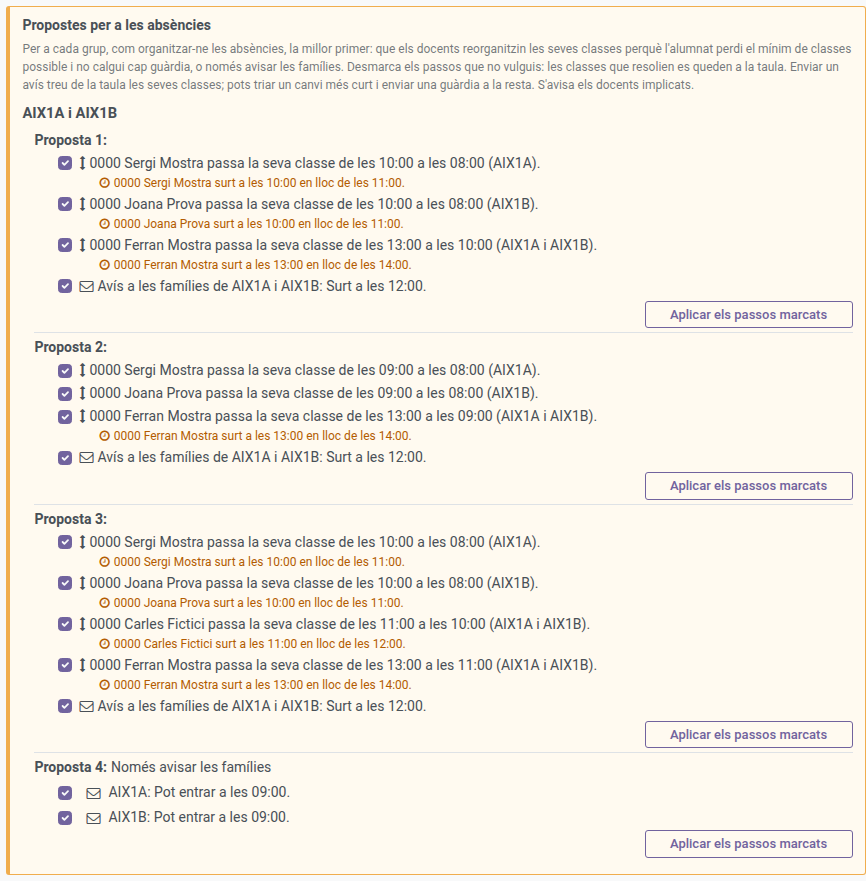
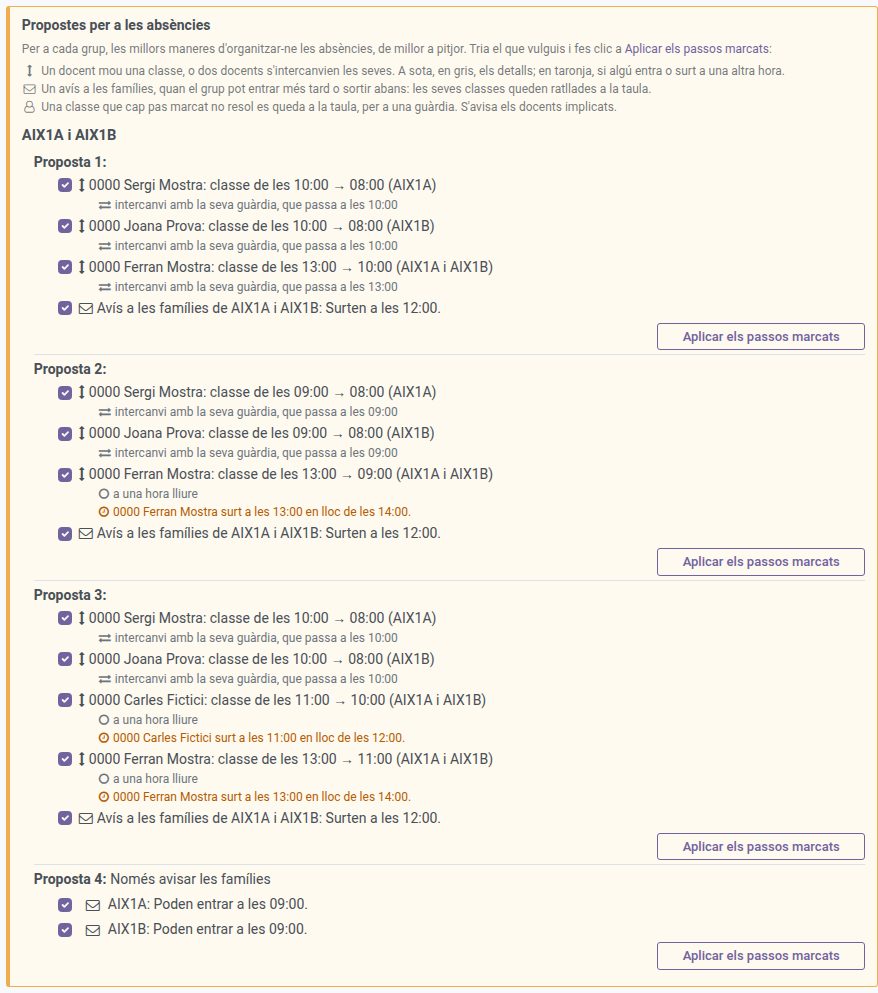
Guard board #709 close: shared moved-lessons shift, missing tests, manual screenshots
One helper computes a teacher's day with all their moved lessons for both the
notifications and the applied labels; tests for mixed kinds in a step and the
swap label; a redundant assertion removed; screenshots 06/07 refreshed and
12-14 added to the teachers' manual.

diff --git a/models/attendance/guard_duty_board.py b/models/attendance/guard_duty_board.py
@@ -1453,20 +1453,23 @@ class EmsCourseGuardDutyBoard(models.Model):
         timetable that weekday, their day's shift counting every lesson of theirs moved that day."""
         attendances = self._get_guard_duty_board_attendance_ids([
             ('dayofweek', '=', str(cover.date.weekday())), ('employee_id', 'in', teachers.ids)])
-        by_teacher = {teacher.id: attendances.filtered(lambda attendance, teacher=teacher: attendance.employee_id == teacher)
-                      for teacher in teachers}
+        context = {'by_teacher': {
+            teacher.id: attendances.filtered(lambda attendance, teacher=teacher: attendance.employee_id == teacher)
+            for teacher in teachers}}
         moves = cover | cover.search([('date', '=', cover.date), ('state', '=', 'assigned'), ('cover_type', '=', 'arrangement'),
                                       ('arrangement_type', '=', 'move'), ('guard_employee_id', 'in', teachers.ids)])
-        shifts = {}
-        for teacher in teachers:
-            own = moves.filtered(lambda move, teacher=teacher: move.guard_employee_id == teacher and move.vacated_hour_to)
-            periods = sorted({((move.vacated_hour_from, move.vacated_hour_to), (move.hour_from, move.hour_to)) for move in own})
-            shifts[teacher.id] = schedule_shift(
-                [(attendance.hour_from, attendance.hour_to) for attendance in by_teacher[teacher.id]],
-                [vacated for vacated, _target in periods], [target for _vacated, target in periods],
-                self._duty_periods(by_teacher[teacher.id]))
+        shifts = {teacher.id: self._moved_lessons_shift(context, teacher, moves) for teacher in teachers}
         step = (kind, frozenset(teachers.ids), (cover.vacated_hour_from, cover.vacated_hour_to), (cover.hour_from, cover.hour_to))
-        return self._arrangement_step_how({'by_teacher': by_teacher}, step, shifts)
+        return self._arrangement_step_how(context, step, shifts)
+
+    def _moved_lessons_shift(self, context, teacher, moves):
+        """How `teacher`'s working day changes with every lesson of theirs that `moves` (applied
+        moved lessons, any teacher's) takes elsewhere that day (issue #645: a plan can move several),
+        see _schedule_shift."""
+        periods = sorted({((move.vacated_hour_from, move.vacated_hour_to), (move.hour_from, move.hour_to)) for move in moves
+                          if move.guard_employee_id == teacher and move.vacated_hour_to})
+        return self._schedule_shift(context, teacher, [vacated for vacated, _target in periods],
+                                    [target for _vacated, target in periods])
 
     def _arrangement_step_details(self, step, values):
         """The lines under a step saying what kind of move it is (issue #709, see
@@ -2362,11 +2365,8 @@ class EmsCourseGuardDutyBoard(models.Model):
                 context, 'swap', cover.absent_employee_id, cover.guard_employee_id, cover.hour_from, cover.hour_to,
                 (cover.vacated_hour_from, cover.vacated_hour_to))
         else:
-            moves = context['covers'].filtered(
-                lambda other: other.arrangement_type == 'move' and other.guard_employee_id == cover.guard_employee_id)
-            periods = {((other.vacated_hour_from, other.vacated_hour_to), (other.hour_from, other.hour_to)) for other in moves | cover}
-            shift = self._schedule_shift(context, cover.guard_employee_id, [vacated for vacated, _target in periods],
-                                         [target for _vacated, target in periods])
+            moves = context['covers'].filtered(lambda other: other.arrangement_type == 'move') | cover
+            shift = self._moved_lessons_shift(context, cover.guard_employee_id, moves)
             shifts = [(cover.guard_employee_id, *change) for change in shift or ()]
         return self._schedule_shift_labels(shifts or [])
 

diff --git a/tests/test_absence_coverage.py b/tests/test_absence_coverage.py
@@ -1667,6 +1667,8 @@ class TestAbsenceCoverage(GuardDutyBoardCase):
         plans = self._board_row(self.department_chief)['arrangement_plans']
         self.assertEqual(len(plans), 2, [[step['label'] for step in plan['steps']] for plan in plans])
         self.assertEqual(plans[0]['title'], 'Proposal 1:')
+        self.assertEqual(plans[0]['steps'][0]['label'], f"{self.teacher_b.name} and {self.teacher_a.name} swap their "
+                                                        f"08:00 and 11:00 lessons ({self.group_a.name})")
         self.assertIn(f'{self.teacher_b.name} comes in at 08:00 instead of 11:00.', plans[0]['steps'][0]['schedule_changes'])
         data = self.env.company.current_course_id.with_user(self.department_chief).get_guard_duty_board_data(
             '0', 'morning', day=str(self.day))
@@ -1919,6 +1921,21 @@ class TestAbsenceCoverage(GuardDutyBoardCase):
             _render_qweb_html('ems.report_guard_duty_board', [self.env.company.current_course_id.id])
         self.assertIn(b'(guard moved from 10:00)', html)
 
+    def test_a_co_taught_step_names_each_teacher_when_their_kinds_differ(self):
+        """Issue #709: under a step, one line per kind of move; the teachers are named only when
+        the pack's teachers differ (one swaps with a guard, the other goes to a free hour)."""
+        course = self.env['ems.course']
+        values = {'lesson': '13:00', 'joined': ''}
+        same = course._arrangement_step_details(
+            {'how': [(self.teacher_b, 'guard', False), (self.teacher_c, 'guard', False)]}, values)
+        self.assertEqual(same, [{'icon': 'fa-exchange', 'text': 'swap with their guard, which moves to 13:00'}])
+        mixed = course._arrangement_step_details(
+            {'how': [(self.teacher_b, 'guard', False), (self.teacher_c, 'free', False)]}, values)
+        self.assertEqual(mixed, [
+            {'icon': 'fa-exchange', 'text': f'{self.teacher_b.name}: swap with their guard, which moves to 13:00'},
+            {'icon': 'fa-circle-o', 'text': f'{self.teacher_c.name}: to a free hour'},
+        ])
+
     def test_a_meeting_swapped_with_a_lesson_is_no_guard(self):
         """Issue #709: a lesson taken to a meeting swaps with it too (the teacher's day does not
         change), but a meeting is no guard: nobody is put on guard at the lesson's hour."""
@@ -2037,9 +2054,6 @@ class TestAbsenceCoverage(GuardDutyBoardCase):
         first = actions[0]['plan']
         self.assertEqual(first['steps'][3]['label'],
                          f"Notice to the families of {self.group_a.name} and {self.group_b.name}: Leaves at 12:00.")
-        # teacher_guard brings their 13:00 lesson to their 12:00 guard, which goes to 13:00 instead
-        # (issue #709): they still leave at 14:00.
-        self.assertEqual(first['steps'][2]['schedule_changes'], [])
         for line in data['lines']:
             for absence in line['absences']:
                 if absence['teacher_id'] == self.teacher_a.id:

diff --git a/docs/es/teachers/guard-duty-schedule.md b/docs/es/teachers/guard-duty-schedule.md
@@ -212,7 +212,7 @@ El recuadro tiene una sección por grupo, encabezada con su nombre. Los grupos q
 
 Un grupo a cuyas familias hay que rectificar algo no aparece en este recuadro, sino en uno rojo, encima: **Corrección de ausencias previamente asignadas** (ver **Cuando la ausencia cambia después**).
 
-![Recuadro de propuestas para las ausencias: la sección de dos grupos, con tres propuestas numeradas, cada una con una lista de pasos con su casilla y, en naranja, las horas de entrada y salida que cambian, y al final la opción de solo avisar a las familias](../../assets/teachers/guard-duty-06-reorganitzacions.png)
+![Recuadro de propuestas para las ausencias: la sección de dos grupos, con tres propuestas numeradas, cada una con una lista de pasos con su casilla y, debajo de cada paso, en gris qué tipo de movimiento es y en naranja las horas de entrada y salida que cambia, y al final la opción de solo avisar a las familias](../../assets/teachers/guard-duty-06-reorganitzacions.png)
 
 Cada propuesta es una lista de pasos, uno por línea, siempre entre docentes de esos grupos y dentro del mismo día. Un paso se lee como una línea corta, por ejemplo *"Ferran: clase de las 13:00 → 10:00 (AIX1A y AIX1B)"*, y debajo, en gris, qué tipo de movimiento es para el docente: *intercambio con su guardia, que pasa a las 13:00*, *intercambio con su hora no lectiva (…)*, *a una hora libre*, *desplazamiento de jornada* (entra y sale más tarde, o más temprano) o *grupos unidos con AIX1B*. Los tipos de paso son:
 
@@ -231,7 +231,13 @@ Las propuestas aparecen en este orden: primero las que hacen perder menos clases
 
 Una clase que se lleva a una hora en la que el docente tiene una guardia, una coordinación o cualquier otra tarea no lectiva se intercambia con esa tarea: la tarea pasa a la hora que deja la clase, de modo que el docente entra y sale a la hora de siempre y no aparece ninguna línea naranja. Solo cambia la hora de entrada o de salida una clase que se lleva a una hora en la que el docente no está en el centro. Si la tarea es una guardia normal, el horario también la mueve: a la hora de la guardia el docente aparece tachado en la columna **Guardia** (está con el grupo), y a la hora de la clase aparece en ella con la etiqueta **(guardia movida desde las 10:00)**, de modo que puedes enviarlo a cubrir una clase como a cualquier otro docente de guardia. Una reunión, una coordinación o cualquier otra tarea no aparece en ningún sitio.
 
+![Columna Guardia después de aplicar una propuesta: dos docentes tachados a la hora de su guardia, en la que están con los grupos, y de guardia a la hora de la clase que han movido, con la etiqueta guardia movida desde las 08:00 y desde las 10:00](../../assets/teachers/guard-duty-13-guardia-moguda.png)
+
+![Por qué una clase no necesita guardia: la reorganización, con el mismo texto que el paso de la propuesta, una clase llevada a la guardia de un docente, que pasa a la hora de la clase](../../assets/teachers/guard-duty-14-reorganitzacio-aplicada.png)
+
 **El horario de un docente no se puede cambiar sin él.** Cuando los pasos que aplicas cambian la hora de entrada o de salida de alguien, el horario te lo pregunta antes y te muestra los cambios: *"¿Has hablado con …?"*. Haz clic en **Sí, aplícalo** cuando haya estado de acuerdo. Con **Todavía no**, no se aplica nada y la propuesta queda como estaba.
+
+![Diálogo Cambios de jornada: las horas de entrada y salida que cambia la reorganización y la pregunta de si lo has hablado con el docente, con los botones Sí, aplícalo y Todavía no](../../assets/teachers/guard-duty-12-canvi-jornada.png)
 
 **Aplicar una propuesta.** Haz clic en **Aplicar los pasos marcados**, a su derecha, o haz clic en la clase y elige la propuesta en el diálogo, donde las propuestas que resuelven esa clase aparecen primero, por encima de enviar una guardia. Todos los pasos aparecen marcados: desmarca los que no quieras. Un paso que necesita otro se desmarca con él (una clase movida al hueco que deja otra, un aviso que solo tiene sentido por una clase movida), y marcar un paso marca lo que necesita.
 

diff --git a/docs/ca/teachers/guard-duty-schedule.md b/docs/ca/teachers/guard-duty-schedule.md
@@ -212,7 +212,7 @@ El quadre té una secció per grup, encapçalada pel seu nom. Els grups que comp
 
 Un grup a les famílies del qual s'ha de rectificar alguna cosa no surt en aquest quadre sinó en un de vermell, a sobre: **Correcció d'absències prèviament assignades** (vegeu **Quan l'absència canvia després**).
 
-![Quadre de propostes per a les absències: la secció de dos grups, amb tres propostes numerades, cadascuna amb una llista de passos amb la seva casella i, en taronja, les hores d'entrada i sortida que canvien, i al final l'opció de només avisar les famílies](../../assets/teachers/guard-duty-06-reorganitzacions.png)
+![Quadre de propostes per a les absències: la secció de dos grups, amb tres propostes numerades, cadascuna amb una llista de passos amb la seva casella i, sota cada pas, en gris quin tipus de moviment és i en taronja les hores d'entrada i sortida que canvia, i al final l'opció de només avisar les famílies](../../assets/teachers/guard-duty-06-reorganitzacions.png)
 
 Cada proposta és una llista de passos, un per línia, sempre entre docents d'aquells grups i dins el mateix dia. Un pas es llegeix com una línia curta, per exemple *"Ferran: classe de les 13:00 → 10:00 (AIX1A i AIX1B)"*, i a sota, en gris, quin tipus de moviment és per al docent: *intercanvi amb la seva guàrdia, que passa a les 13:00*, *intercanvi amb la seva hora no lectiva (…)*, *a una hora lliure*, *desplaçament de jornada* (entra i surt més tard, o més d'hora) o *grups units amb AIX1B*. Els tipus de pas són:
 
@@ -231,7 +231,13 @@ Les propostes surten en aquest ordre: primer les que fan perdre menys classes a 
 
 Una classe que es porta a una hora en què el docent té una guàrdia, una coordinació o qualsevol altra tasca no lectiva s'intercanvia amb aquesta tasca: la tasca passa a l'hora que deixa la classe, de manera que el docent entra i surt a l'hora de sempre i no apareix cap línia taronja. Només canvia l'hora d'entrada o de sortida una classe que es porta a una hora en què el docent no és al centre. Si la tasca és una guàrdia normal, l'horari també la mou: a l'hora de la guàrdia el docent surt ratllat a la columna **Guàrdia** (és amb el grup), i a l'hora de la classe hi apareix amb l'etiqueta **(guàrdia moguda des de les 10:00)**, de manera que el pots enviar a cobrir una classe com qualsevol altre docent de guàrdia. Una reunió, una coordinació o qualsevol altra tasca no surt enlloc.
 
+![Columna Guàrdia després d'aplicar una proposta: dos docents ratllats a l'hora de la seva guàrdia, en què són amb els grups, i de guàrdia a l'hora de la classe que han mogut, amb l'etiqueta guàrdia moguda des de les 08:00 i des de les 10:00](../../assets/teachers/guard-duty-13-guardia-moguda.png)
+
+![Per què una classe no necessita guàrdia: la reorganització, amb el mateix text que el pas de la proposta, una classe portada a la guàrdia d'un docent, que passa a l'hora de la classe](../../assets/teachers/guard-duty-14-reorganitzacio-aplicada.png)
+
 **L'horari d'un docent no es pot canviar sense ell.** Quan els passos que apliques canvien l'hora d'entrada o de sortida d'algú, l'horari t'ho pregunta abans i et mostra els canvis: *"Has parlat amb …?"*. Fes clic a **Sí, aplica-ho** quan hi hagi estat d'acord. Amb **Encara no**, no s'aplica res i la proposta queda com estava.
+
+![Diàleg Canvis de jornada: les hores d'entrada i sortida que canvia la reorganització i la pregunta de si n'has parlat amb el docent, amb els botons Sí, aplica-ho i Encara no](../../assets/teachers/guard-duty-12-canvi-jornada.png)
 
 **Aplicar una proposta.** Fes clic a **Aplicar els passos marcats**, a la seva dreta, o fes clic a la classe i tria la proposta al diàleg, on les propostes que resolen aquella classe surten primer, per sobre d'enviar una guàrdia. Tots els passos surten marcats: desmarca els que no vulguis. Un pas que en necessita un altre es desmarca amb ell (una classe moguda al buit que en deixa una altra, un avís que només té sentit per una classe moguda), i marcar un pas marca el que necessita.
 

diff --git a/docs/en/teachers/guard-duty-schedule.md b/docs/en/teachers/guard-duty-schedule.md
@@ -212,7 +212,7 @@ The box has one section per group, headed with its name. Groups that share a les
 
 A group whose families must be told a correction is not in this box but in a red one above it: **Corrections to absences already organised** (see **When the absence changes afterwards**).
 
-![Proposals for the absences box: the section of two groups, with three numbered proposals, each a list of steps with its checkbox and, in orange, the entry and exit times they change, and last the option of only telling the families](../../assets/teachers/guard-duty-06-reorganitzacions.png)
+![Proposals for the absences box: the section of two groups, with three numbered proposals, each a list of steps with its checkbox and, under each step, in grey what kind of move it is and in orange the entry and exit times it changes, and last the option of only telling the families](../../assets/teachers/guard-duty-06-reorganitzacions.png)
 
 Each proposal is a list of steps, one per line, always between teachers of those groups and within the same day. A step reads as a short line, such as *"Ferran: 13:00 lesson → 10:00 (AIX1A and AIX1B)"*, and under it, in grey, what kind of move it is for the teacher: *swap with their guard, which moves to 13:00*, *swap with their non-teaching hour (…)*, *to a free hour*, *working day shifted* (they come in and leave later, or earlier) or *groups joined with AIX1B*. The kinds of step are:
 
@@ -231,7 +231,13 @@ Proposals come in this order: first those where the students lose fewer lessons;
 
 A lesson taken to an hour when the teacher has a guard, a coordination or any other non-teaching duty swaps with it: the duty goes to the hour the lesson leaves, so the teacher comes in and leaves at the usual time and no orange line appears. Only a lesson taken to an hour when the teacher is not in the centre changes their entry or exit time. If the duty is a regular guard, the schedule moves it as well: at the guard's hour the teacher is struck out of the **Guard duty** column (they are with the group), and at the lesson's hour they appear in it with the tag **(guard moved from 10:00)**, so you can send them to cover a class like any other guard teacher. A meeting, a coordination or any other duty shows nowhere.
 
+![Guard duty column after applying a proposal: two teachers struck out at the hour of their guard, where they are with the groups, and on guard at the hour of the lesson they moved, tagged guard moved from 08:00 and from 10:00](../../assets/teachers/guard-duty-13-guardia-moguda.png)
+
+![Why a class needs no guard: the arrangement, worded as its proposal step, a lesson moved to a teacher's guard, which moves to the lesson's hour](../../assets/teachers/guard-duty-14-reorganitzacio-aplicada.png)
+
 **A teacher's timetable cannot be changed without them.** When the steps you apply change somebody's entry or exit time, the schedule asks first, listing the changes: *"Have you talked to …?"*. Click **Yes, apply it** once they have agreed; **Not yet** applies nothing and leaves the proposal as it was.
+
+![Working day changes dialog: the entry and exit times the arrangement changes and the question whether you have talked to the teacher, with the buttons Yes, apply it and Not yet](../../assets/teachers/guard-duty-12-canvi-jornada.png)
 
 **Applying a proposal.** Click **Apply the checked steps** on its right, or click the class and choose the proposal in the dialog, where the proposals that solve that class come first, above sending a guard. Every step starts checked: uncheck those you do not want. A step that needs another one is unchecked along with it (a move into the gap another one leaves, a notice that only makes sense because of a move), and checking a step checks what it needs.
 
